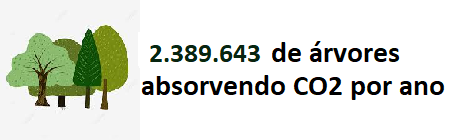
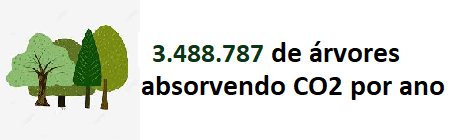
Atualizações de Fev/23

Changed region(s): [[0.3111, 0.3143, 0.5911, 0.4571]]

diff --git a/frontend/src/components/DataTable/index.tsx b/frontend/src/components/DataTable/index.tsx
@@ -9,7 +9,7 @@ const DataTable = () => {
                         <th>OT's</th>
                         <th>OS's</th>
                         <th>OD's</th>
-                        <th>Estoque em 31/01/23 (Kg)</th>
+                        <th>Estoque em 28/02/23 (Kg)</th>
                         <th>Peso Reciclado (Kg)</th>                        
                     </tr>
                     <tr>
@@ -22,11 +22,11 @@ const DataTable = () => {
                     </tr>
                     <tr>
                         <td>Codel</td>
-                        <td>196</td>
-                        <td>346</td>
-                        <td>727</td>
-                        <td>18.066,533</td>
-                        <td>85.147,863</td>
+                        <td>206</td>
+                        <td>357</td>
+                        <td>757</td>
+                        <td>16.477,025</td>
+                        <td>90.949,059</td>
                     </tr>
                     <tr>
                         <td>Ecobras</td>
@@ -62,19 +62,19 @@ const DataTable = () => {
                     </tr>
                     <tr>
                         <td>Natal</td>
-                        <td>509</td>
-                        <td>3.077</td>
-                        <td>483</td>
-                        <td>101.573,729</td>
-                        <td>1.355.667,421</td>
+                        <td>515</td>
+                        <td>3.152</td>
+                        <td>498</td>
+                        <td>169.841,419</td>
+                        <td>1.423.387,939</td>
                     </tr>
                     <tr>
                         <td>Reciclo</td>
-                        <td>1.146</td>
-                        <td>2.172</td>
-                        <td>1.538</td>
-                        <td>86.010,346</td>
-                        <td>2.089.971,010</td>
+                        <td>1.217</td>
+                        <td>2.255</td>
+                        <td>1.585</td>
+                        <td>61.916,857</td>
+                        <td>2.182.866,970</td>
                     </tr>                    
                     <tr>
                         <td>Reeecicle</td>
@@ -86,17 +86,17 @@ const DataTable = () => {
                     </tr><tr>
                         <td>RFR Reciclagem</td>
                         <td>0</td>
-                        <td>6</td>
-                        <td>69</td>
+                        <td>12</td>
+                        <td>235</td>
                         <td>0,000</td>
-                        <td>2.487.100,000</td>
+                        <td>5.473.740,000</td>
                     </tr>
                     <tr>
                         <td>Sete Ambiental</td>
-                        <td>1.084</td>
-                        <td>852</td>
+                        <td>1.109</td>
+                        <td>879</td>
                         <td>17</td>
-                        <td>73.090,672</td>
+                        <td>92.322,922</td>
                         <td>609,600</td>
                     </tr>
                     <tr>
@@ -110,10 +110,10 @@ const DataTable = () => {
                     <tr>
                         <td>Zero Impacto</td>
                         <td>85</td>
-                        <td>765</td>
-                        <td>79</td>
-                        <td>75.615,387</td>
-                        <td>72.004,772</td>
+                        <td>796</td>
+                        <td>81</td>
+                        <td>78.818,120</td>
+                        <td>80.763,105</td>
                     </tr>
                     <tr>
                         <td> </td>
@@ -125,11 +125,11 @@ const DataTable = () => {
                     </tr>
                     <tr>
                         <th>T O T A I S</th>
-                        <th>3.144</th>
-                        <th>7.681</th>
-                        <th>3.109</th>
-                        <th>605.372,993</th>
-                        <th>6.171.949,267</th>
+                        <th>3.256</th>
+                        <th>7.914</th>
+                        <th>3.369</th>
+                        <th>670.372,669</th>
+                        <th>9.333.765,074</th>
                     </tr>
                 </thead>
                 <tbody>

diff --git a/frontend/src/components/BarRecbMensal/index.tsx b/frontend/src/components/BarRecbMensal/index.tsx
@@ -21,7 +21,7 @@ const BarRecbMensal = () => {
         series: [
             {
                 name: "Kg Recebidos",
-                data: [108468, 113628,	123526, 138370, 186067, 187866, 219556, 162479, 257534, 204908, 255846, 235632, 170503, 177506, 183005, 129727, 151077, 156492, 180520, 189042, 220864, 139278, 2174672, 638948, 205333]                  
+                data: [108468, 113628,	123526, 138370, 186067, 187866, 219556, 162479, 257534, 204908, 255846, 235632, 170503, 177506, 183005, 129727, 151077, 156492, 180520, 189042, 220864, 139278, 2174672, 638948, 3023874, 360184]                  
             }
         ]
     };

diff --git a/frontend/src/components/BarReciclMensal/index.tsx b/frontend/src/components/BarReciclMensal/index.tsx
@@ -21,7 +21,7 @@ const BarReciclMensal = () => {
         series: [
             {
                 name: "Kg Reciclados",
-                data: [26339, 90712, 93643, 142116, 166545, 219788, 189244, 197028, 209382, 176002, 176982, 162728, 128780, 136990, 181336, 84713, 112874, 154528, 138325, 172608, 207822, 160358, 1986182, 743296, 113629]                  
+                data: [26339, 90712, 93643, 142116, 166545, 219788, 189244, 197028, 209382, 176002, 176982, 162728, 128780, 136990, 181336, 84713, 112874, 154528, 138325, 172608, 207822, 160358, 1986182, 743296, 2188760, 1086686]                  
             }
         ]
     };

diff --git a/frontend/src/components/DonutChart/index.tsx b/frontend/src/components/DonutChart/index.tsx
@@ -3,7 +3,7 @@ import Chart from 'react-apexcharts';
 const DonutChart = () => {
 
     const mockData = {
-        series: [0, 85.148, 46.304, 0, 9.459, 25.501, 1355.667, 2089.971, 0.184, 2487.100, 0.610, 0, 72.005],
+        series: [0, 90.949, 46.304, 0, 9.459, 25.501, 1423.388, 2182.867, 0.184, 5473.740, 0.610, 0, 80.763],
         labels: ['BDPWaste', 'Codel', 'Ecobras', 'Ecodescarte', 'EcoTI - BA', 'EcoTI - SE', 'Natal', 'Reciclo', 'Reeecicle', 'RFR Reciclagem' , 'Sete Ambiental', 'WEEE', 'Zero Impacto']
     }
     

diff --git a/frontend/src/components/BarChart/index.tsx b/frontend/src/components/BarChart/index.tsx
@@ -17,7 +17,7 @@ const BarChart = () => {
             series: [
             {
                 name: "Ton Reciclados",
-                data: [0, 85.148, 46.304, 0, 9.459, 25.501, 1355.667, 2089.971, 0.184, 2487.100, 0.610, 0, 72.005]                  
+                data: [0, 90.949, 46.304, 0, 9.459, 25.501, 1423.388, 2182.867, 0.184, 5473.740, 0.610, 0, 80.763]                  
             }
         ]
     };

diff --git a/frontend/src/components/BarOSs/index.tsx b/frontend/src/components/BarOSs/index.tsx
@@ -22,7 +22,7 @@ const BarOSs = () => {
         series: [
             {
                 name: "OS's Abertas",
-                data: [11, 346, 17, 6, 64, 158, 3077, 2172, 206, 6, 852, 12, 765]                  
+                data: [11, 357, 17, 6, 64, 158, 3152, 2255, 206, 12, 879, 12, 796]                  
             }
         ]
     };

diff --git a/frontend/src/components/BarODs/index.tsx b/frontend/src/components/BarODs/index.tsx
@@ -22,7 +22,7 @@ const BarODs = () => {
             series: [
             {
                 name: "OD's Abertas",
-                data: [0, 727, 23, 0, 49, 52, 483, 1538, 1, 69, 17, 71, 79]                  
+                data: [0, 757, 23, 0, 49, 52, 498, 1585, 1, 235, 17, 71, 81]                  
             }
         ]
     };

diff --git a/frontend/src/components/BarOTs/index.tsx b/frontend/src/components/BarOTs/index.tsx
@@ -22,7 +22,7 @@ const BarOTs = () => {
         series: [
             {
                 name: "OT's Abertas",
-                data: [2, 196, 0, 37, 24, 14, 509, 1146, 49, 0, 1084, 0, 85]                  
+                data: [2, 206, 0, 37, 24, 14, 515, 1217, 49, 0, 1109, 0, 85]                  
             }
         ]
     };
